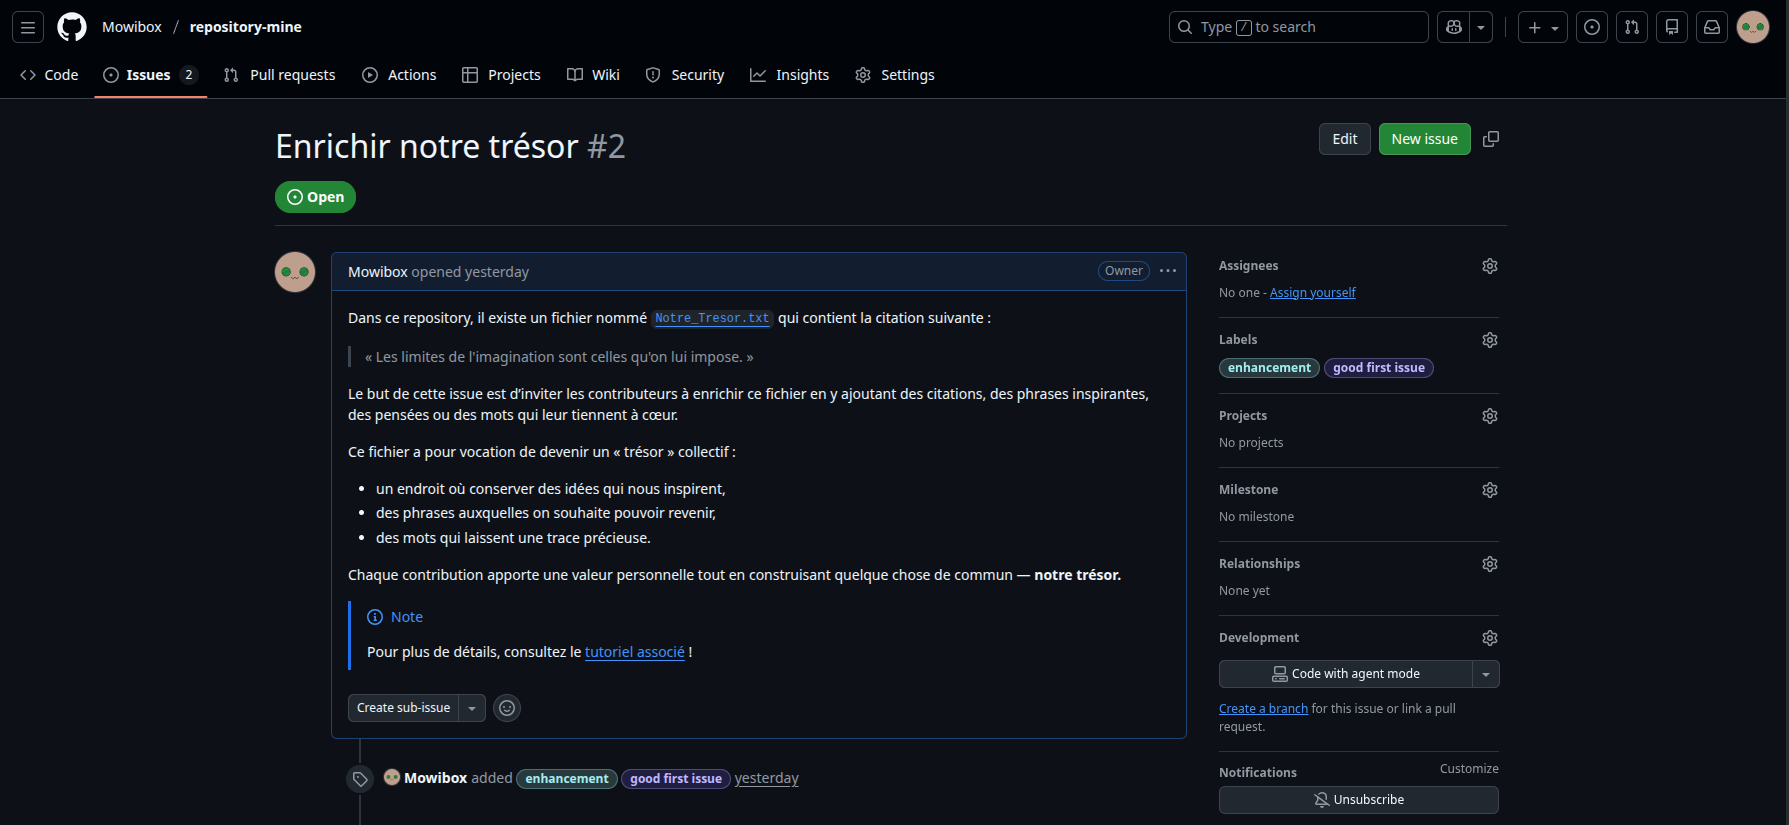
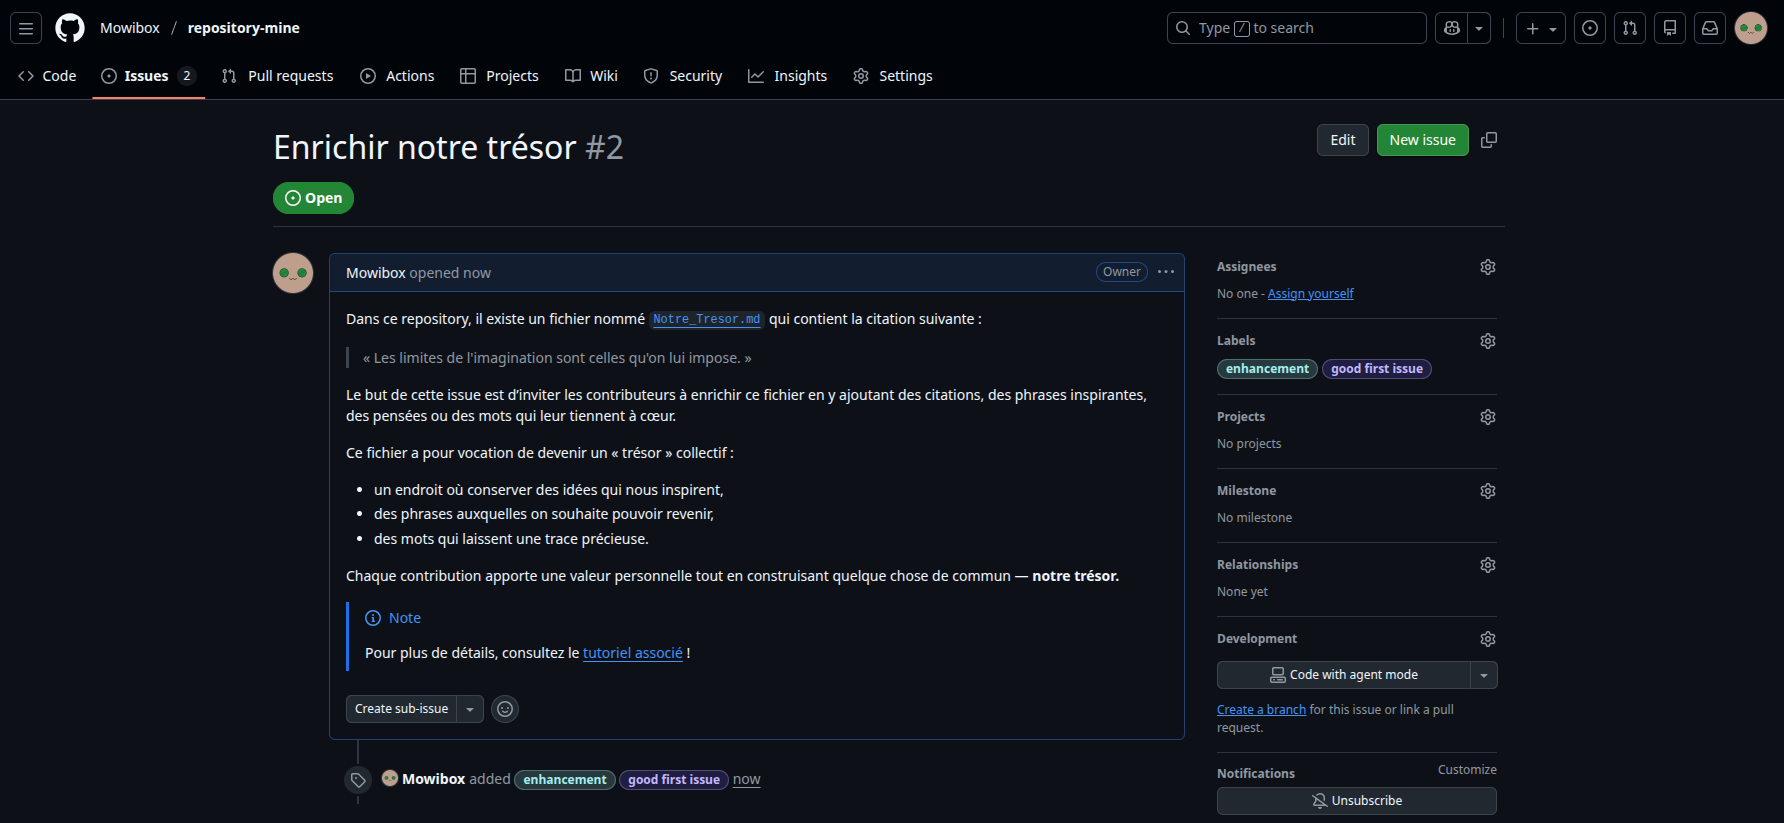
Updating github tutorial part 3 [skip ci]

diff --git a/content/fr/tutorials/computer_science/introduction_to_github_part3/index.md b/content/fr/tutorials/computer_science/introduction_to_github_part3/index.md
@@ -25,7 +25,9 @@ Dans cette dernière partie du tutoriel d'introduction à Git et GitHub, vous
 
 Tout au long de cette introduction, nous avons illustré nos propos et nos manipulations via la `repository-mine`. De manière générale, une mine est créée pour en extraire des minerais, un filon, un trésor... Ne serait-ce pas une bonne idée d'ajouter un trésor à la `repository-mine` pour lui apporter de la valeur ? En ce sens, j'ai créé au sein du repository un fichier nommé `Notre_Tresor.md` :
 
-```txt {title="Notre_Tresor.md"}
+```md {title="Notre_Tresor.md"}
+# Notre trésor
+
 * "Les limites de l'imagination sont celles qu'on lui impose."
 ```
 
@@ -49,27 +51,49 @@ Dans l'image ci-dessus on peut voir les différentes caractéristiques d'une iss
 
 * Un titre : "Enrichir notre trésor". Le titre permet de résumer en une phrase de quoi l'issue traite.
 * Une description : Elle permet d'apporter plus de détail au contexte de l’issue, en expliquant ce qui est attendu et en précisant éventuellement les contraintes ou les pistes à suivre.
-* Des labels : Ils permettent de catégoriser l'issue. Ici, on a mis le labels `enhancement` car le but de l'issue est d'apporter une amélioration au repository de base. Le label `good first issue` indique qu'il s'agit d'une issue idéale pour ceux qui apporter une première contribution au projet.
+* Des labels : Ils permettent de catégoriser l'issue. Ici, on a mis le label `enhancement`, car le but de l'issue est d'apporter une amélioration au repository de base. Le label `good first issue` indique qu'il s'agit d'une issue idéale pour ceux qui apporter une première contribution au projet.
+
+La prochaine étape est donc de modifier les fichiers concernées afin d'enrichir le trésor commun. Or, le repository ayant été créé par moi-même, vous ne pouvez pas modifier directement le contenu. Plutôt que de donner un à un les droits d'écriture à chaque contribueur, GitHub propose un mécanisme alternatif : la fork.
 
 ## Fork un repository
 
+"Forker" un repository consiste à créer une copie complète d'un repository sur votre propre compte GitHub. Cette copie vous appartient : vous pouvez y effectuer toutes les modifications que vous souhaitez. C'est le mode de fonctionnement le plus courant pour contribuer à un projet sans en être propriétaire original.
+
 <p align="center">
-    <img src="/chroma/images/gitgithub30.png" alt="Chromatisti" class="w-full h-auto" />
+    <img src="/chroma/images/gitgithub30.png" alt="Two mines" class="w-full h-auto" />
     </br>
-    <em style="font-size: 0.95em;">Je me demande bien ce que peut dire Chromatistí...</em>
+    <em style="font-size: 0.95em;">Fork un repository, c'est comme avoir une mine identique à l'originale dans laquelle vous pouvez tout faire !</em>
 </p>
 
-<p align="center">
-    <img src="/chroma/images/gitgithub31.png" alt="Create a fork" class="w-full h-auto" />
-</p>
+Pour illustrer comment créer une fork, un nouveau contribueur est introduit : Chromatistí.
 
 <p align="center">
-    <img src="/chroma/images/gitgithub32.png" alt="Fork informations" class="w-full h-auto" />
+    <img src="/chroma/images/gitgithub31.png" alt="Chromatisti" class="w-full h-auto" />
+    </br>
+    <em style="font-size: 0.95em;">Chromatistí !</em>
 </p>
 
+* Pour créer une fork, Chromatistí va se rendre sur mon repository et appuyer sur le bouton "Fork" :
+
 <p align="center">
-    <img src="/chroma/images/gitgithub33.png" alt="Fork repository" class="w-full h-auto" />
+    <img src="/chroma/images/gitgithub32.png" alt="Create a fork" class="w-full h-auto" />
 </p>
+
+* Chromatistí vérifie ensuite les informations de sa fork. Les informations par défaut sont celles du repository de référence, mais elles peuvent aussi être modifiées à souhait :
+
+<p align="center">
+    <img src="/chroma/images/gitgithub33.png" alt="Fork informations" class="w-full h-auto" />
+</p>
+
+* Chromatistí appuie sur "Create a fork" et obient finalement une `repository-mine` identique à l'originale (c'est bien son icône qui est à côté du nom du repository) :
+
+<p align="center">
+    <img src="/chroma/images/gitgithub34.png" alt="Fork repository" class="w-full h-auto" />
+</p>
+
+{{< callout context="note" title="Mission" icon="outline/target-arrow" >}}
+Créez une fork de [repository-mine](https://github.com/Mowibox/repository-mine).
+{{< /callout >}}
 
 ## Les branches
 
@@ -80,6 +104,11 @@ modifie le fichier en
 ```bash
 git push --set-upstream origin mon-tresor
 ```
+
+{{< callout context="note" title="Mission" icon="outline/target-arrow" >}}
+Créez une nouvelle branche et modifiez le fichier "Notre_Tresor.md" en respectant les directives suivantes :
+{{< /callout >}}
+
 
 ```bash
 git checkout main # Se déplacer de branche en branche comme un singe
@@ -98,11 +127,22 @@ git branch -d mon-tresor # supprimer la branche
 git push
 ```
 
+{{< callout context="note" title="Mission" icon="outline/target-arrow" >}}
+Fusionnez votre branche avec la branche principale et supprimez la branche.
+{{< /callout >}}
+
+
 ## Les pull requests
 
 Contribute -> Open pull request
 
 Référencer l'issue
+
+{{< callout context="note" title="Mission" icon="outline/target-arrow" >}}
+Réalisez une pull request pour intégrer vos modifications au. N'oubliez pas de référencer la bonne issue !
+{{< /callout >}}
+
+## Pour aller plus loin
 
 ---
 

diff --git a/content/en/tutorials/computer_science/introduction_to_github_part2/index.md b/content/en/tutorials/computer_science/introduction_to_github_part2/index.md
@@ -110,6 +110,11 @@ And that’s it! You can also verify that the SSH connection is properly establi
 ```bash {title="MINGW64:/c/Users/Mowibox"}
 Mowibox@CHROMA MINGW64 ~
 $ ssh -T git@github.com
+```
+
+You will then see a connection confirmation message. Enter “yes,” and if everything went well, you should see the following display:
+
+```bash {title="MINGW64:/c/Users/Mowibox"}
 Hi Mowibox! You've successfully authenticated, but GitHub does not provide shell access.
 
 Mowibox@CHROMA MINGW64 ~
@@ -152,9 +157,17 @@ You will get an output in your terminal corresponding to your key (it starts wit
 And that’s it! You can also verify that the SSH connection is properly established with GitHub using the following command:
 
 ```bash {title="mowibox@chroma: ~"}
-mowibox@chroma:~$ ssh -T git@github.com
+Mowibox@CHROMA MINGW64 ~
+$ ssh -T git@github.com
+```
+
+You will then see a connection confirmation message. Enter “yes,” and if everything went well, you should see the following display:
+
+```bash {title="mowibox@chroma: ~"}
 Hi Mowibox! You've successfully authenticated, but GitHub does not provide shell access.
-mowibox@chroma:~$
+
+Mowibox@CHROMA MINGW64 ~
+$
 ```
 
 {{< /details >}}
@@ -165,7 +178,7 @@ mowibox@chroma:~$
 
 * Generate an SSH key by entering the following command:
 
-```bash {title="mowibox@chroma: ~"}
+```bash {title="mowibox – -zsh – 81x21"}
 mowibox@chroma:~$ ssh-keygen -t ed25519 -C "your_email@example.com"
 ```
 
@@ -173,14 +186,14 @@ You can press "Enter" two or three times to accept the default file location and
 
 * Enable the SSH agent and add the SSH key with the following command:
 
-```bash {title="mowibox@chroma: ~"}
+```bash {title="mowibox – -zsh – 81x21"}
 mowibox@chroma:~$ eval "$(ssh-agent -s)"
 ssh-add --apple-use-keychain ~/.ssh/id_ed25519
 ```
 
 The next step is to add the key you just generated to GitHub. To do so, run the following command:
 
-```bash {title="mowibox@chroma: ~"}
+```bash {title="mowibox – -zsh – 81x21"}
 mowibox@chroma:~$ cat ~/.ssh/id_ed25519.pub
 ```
 
@@ -192,10 +205,18 @@ You will get an output in your terminal corresponding to your key (it starts wit
 
 And that’s it! You can also verify that the SSH connection is properly established with GitHub using the following command:
 
-```bash {title="mowibox@chroma: ~"}
-mowibox@chroma:~$ ssh -T git@github.com
+```bash {title="mowibox – -zsh – 81x21"}
+Mowibox@CHROMA MINGW64 ~
+$ ssh -T git@github.com
+```
+
+You will then see a connection confirmation message. Enter “yes,” and if everything went well, you should see the following display:
+
+```bash {title="mowibox – -zsh – 81x21"}
 Hi Mowibox! You've successfully authenticated, but GitHub does not provide shell access.
-mowibox@chroma:~$
+
+Mowibox@CHROMA MINGW64 ~
+$
 ```
 
 {{< /details >}}
